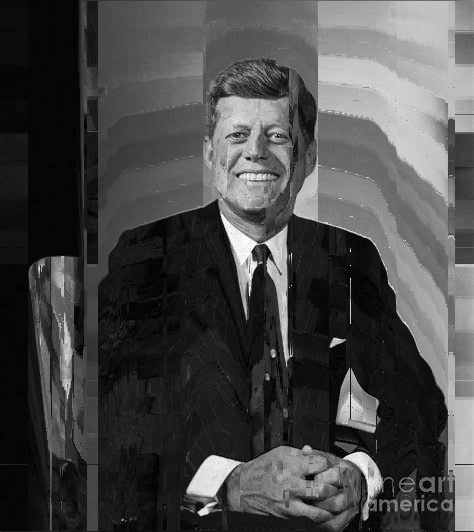
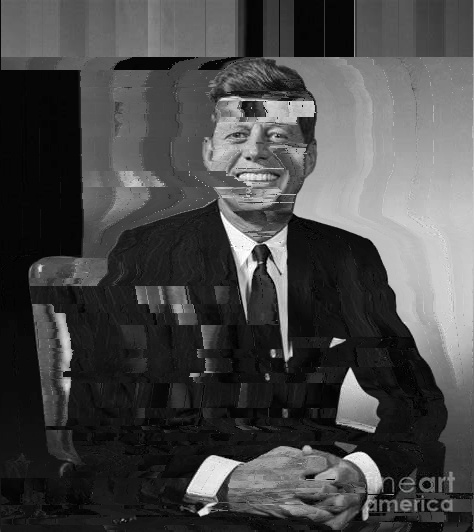
region-based working

diff --git a/sort.py b/sort.py
@@ -122,21 +122,64 @@ def _sort_gradient(img, v, h, s, edges, sort_channel):
     return v, h, s
 
 def _sort_regions(v, h, s, edges, sort_channel):
-    """Sort pixels within edge-bounded regions."""
-    # Use connected components to identify regions
-    _, labels = cv2.connectedComponents(255 - edges)
+    """Sort pixels within edge-bounded regions while preserving local structure."""
+    # Preprocess edges to ensure closed regions
+    kernel = cv2.getStructuringElement(cv2.MORPH_ELLIPSE, (3,3))
+    dilated_edges = cv2.dilate(edges, kernel, iterations=1)
     
+    # Find regions using 8-connected components on inverted edges
+    _, labels = cv2.connectedComponents(255 - dilated_edges, connectivity=8)
+    
+    # Process each region
     for label in np.unique(labels):
-        if label == 0: continue  # Skip background
+        if label == 0:  # Background
+            continue
+            
+        # Create region mask and get bounding box
+        mask = (labels == label).astype(np.uint8)
+        contours, _ = cv2.findContours(mask, cv2.RETR_EXTERNAL, cv2.CHAIN_APPROX_SIMPLE)
         
-        # Create a mask for the current region
-        mask = (labels == label).astype("uint8")
+        # Skip small regions
+        if cv2.contourArea(contours[0]) < 100:
+            continue
+
+        # Get region boundaries
+        x,y,w,h_region = cv2.boundingRect(contours[0])
         
-        # Sort pixels within the region
-        sorted_order = np.argsort(sort_channel[mask == 1])
-        v[mask == 1] = v[mask == 1][sorted_order]
-        h[mask == 1] = h[mask == 1][sorted_order]
-        s[mask == 1] = s[mask == 1][sorted_order]
+        # Process each row in the region
+        for row in range(y, y+h_region):
+            # Get row slice within region bounds
+            row_mask = mask[row, x:x+w]
+            if np.sum(row_mask) == 0:
+                continue
+                
+            # Find start/end of region segment in this row
+            cols = np.where(row_mask > 0)[0]
+            if len(cols) == 0:
+                continue
+                
+            start_col = cols[0] + x
+            end_col = cols[-1] + x + 1
+            
+            # Split into sub-segments using original edges
+            edge_positions = np.where(edges[row, start_col:end_col] > 0)[0] + start_col
+            segments = np.split(np.arange(start_col, end_col), edge_positions - start_col)
+            
+            # Sort each sub-segment
+            for seg in segments:
+                if len(seg) < 2:
+                    continue
+                    
+                # Get absolute column indices
+                start = seg[0]
+                end = seg[-1] + 1
+                
+                # Sort within the segment
+                sorted_order = np.argsort(sort_channel[row, start:end])
+                v[row, start:end] = v[row, start:end][sorted_order]
+                h[row, start:end] = h[row, start:end][sorted_order]
+                s[row, start:end] = s[row, start:end][sorted_order]
+
     return v, h, s
 
 def process_folder(input_folder, output_folder, canny_low=50, canny_high=150, sort_key='brightness', sort_method='row'):
@@ -169,4 +212,4 @@ if __name__ == "__main__":
     # Example usage
     input_folder = "input"  # Folder containing input images
     output_folder = "sorted_images"  # Folder to save sorted images
-    process_folder(input_folder, output_folder, canny_low=100, canny_high=200, sort_key='hue', sort_method='column')
+    process_folder(input_folder, output_folder, canny_low=100, canny_high=200, sort_key='hue', sort_method='region')
